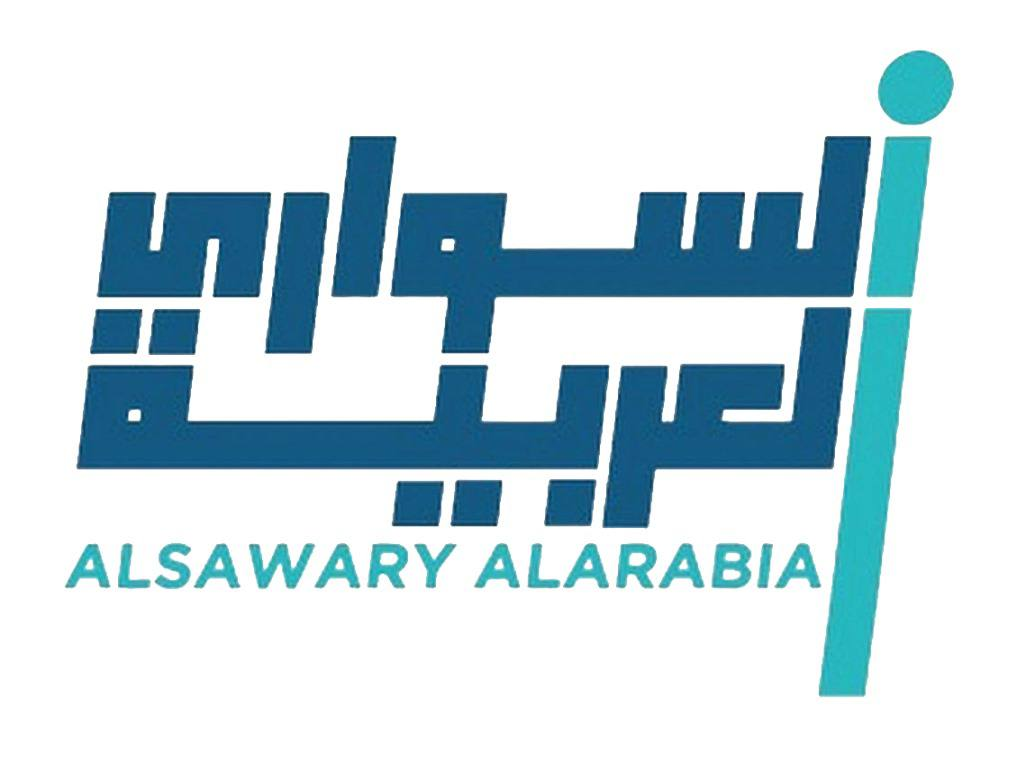
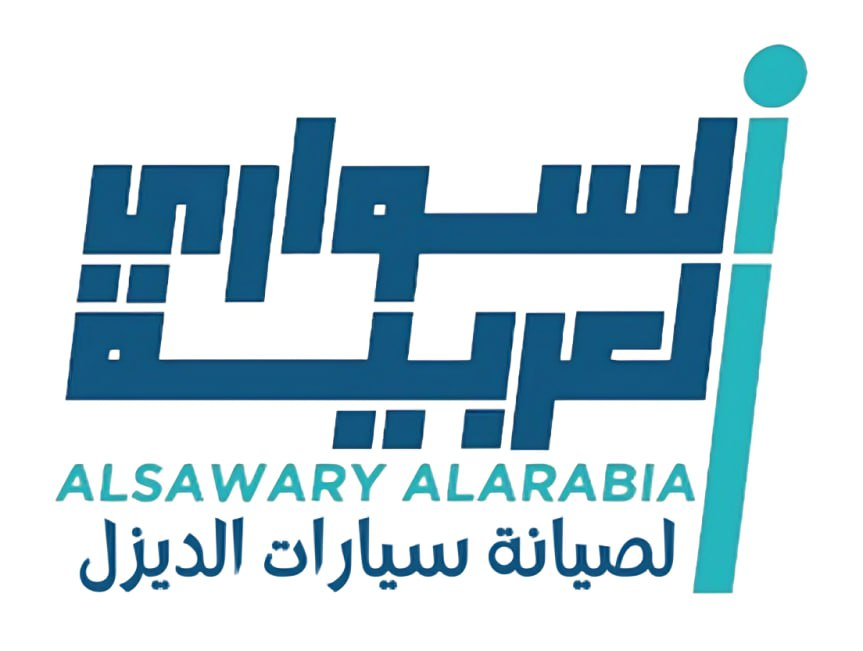
edit stuff

diff --git a/resources/views/frontend/index.blade.php b/resources/views/frontend/index.blade.php
@@ -1,6 +1,4 @@
 @extends('layouts.main')
-
-
 @section('content')
     
     <div class="main-container ">
@@ -9,78 +7,21 @@
         </div>
         <div class="container w-full max-w-full  md:pt-40 pt-10">
             <div class="cars md:w-11/12 w-full px-4 mx-auto border-b-2 border-gray-200" data-aos="fade-up" data-aos-duration="1500">
-                <h1 class="sm:mt-20 mt-10 sm:text-4xl text-3xl text-main-back border-b-4 border-main-back pb-4 w-fit" data-aos="fade-right" data-aos-duration="2000">سيارات البيع المباشر</h1>
-                @if (count($cars) != 0)
-                    <div class="car-boxs pb-[120px] relative grid lg:grid-cols-4 md:grid-cols-3 sm:grid-cols-2 grid-cols-1 gap-8">
-                        @foreach($cars as $car)
-                            <a href="commercials-cars/{{$car->id}}" title="عرض السيارات" class="group mt-10 bg-white text-main-text shadow-md hover:shadow-lg transition-all ease-linear rounded overflow-hidden relative">
-                                <img src="{{asset("uploads/car_logos/$car->car_logo")}}" class="w-full rounded-sm group-hover:blur-[1px] transition-all ease-linear object-contain" alt="صورة السيارة">
-                                <div class="content p-4 pt-0 bg-white">
-                                    <h3 class="pt-2 mb-4 font-semibold text-main-back">{{$car->car_model}}</h3>
-                                    <div class="flex justify-between items-center mt-2">
-                                        <span class="font-semibold"><i class="fa-solid fa-gauge"></i> {{$car->car_odometer}} </span>
-                                        <span class="font-semibold"><i class="fa-solid fa-calendar-days me-2"></i>{{$car->car_created}}</span>
-                                    </div>
-                                    <div class="flex justify-between items-center mt-4">
-                                        <span class="font-semibold"><i class="fa-solid fa-gas-pump"></i> {{$car->car_fuel ? "ديزل": "بنزين"}}</span>
-                                        <p class="">{{$car->car_location}} <i class="fa-solid fa-location-dot me-1"></i></p>
-                                    </div>
-                                    
-                                    @if (!$car->car_status)
-                                        <span class=" bg-main-back text-white font-semibold w-24 text-left px-4 py-1 absolute top-2 rounded-3xl -right-3 ">تم البيع</span>
-                                    @endif
-                                </div>
-                            </a>
-                        @endforeach
-                        @if(count($cars) > 3)
-                            <a href="{{route('cars')}}" 
-                                class="w-40 text-center py-2 px-4 mt-10 mx-auto absolute bottom-14 left-1/2 -translate-x-1/2 bg-main-back rounded-lg text-white hover:bg-hover-back transition-all font-semibold"
-                            >عرض المزيد </a>
-                        @endif
-                    </div>
-                @else
-                    <div class="flex justify-center items-center mb-4 flex-col">
-                        <img src="{{asset("images/no-data.png")}}" alt="لا توجد بيانات لعرضها"  class="md:w-[400px] md:h-[400px] w-[300px] h-[300px] mb-2">
-                        <h3 class="bg-teal-200 md:text-2xl text-xl py-2 px-4  rounded text-main-back">لا يوجد عروض سيارات </h3>
-                    </div>
-                @endif
-            </div>
-            <div class="cars md:w-11/12 w-full px-4 mx-auto border-b-2 border-gray-200" data-aos="fade-up" data-aos-duration="1500">
-                <h1 class="sm:mt-20 mt-10 sm:text-4xl text-3xl text-main-back border-b-4 border-main-back pb-4 w-fit" data-aos="fade-right" data-aos-duration="2000">سيارات المزاد</h1>
-                @if (count($auctions) != 0)
-                    <div class="car-boxs pb-[120px] relative grid lg:grid-cols-4 md:grid-cols-3 sm:grid-cols-2 grid-cols-1 gap-8">
-                        @foreach($auctions as $car)
-                            <a href="commercials-auctionCars/{{$car->id}}" title="عرض السيارات" class="group mt-10 bg-white text-main-text shadow-md hover:shadow-lg transition-all ease-linear rounded overflow-hidden relative">
-                                <img src="{{asset("uploads/car_logos/$car->car_logo")}}" class="w-full rounded-sm group-hover:blur-[1px] transition-all ease-linear object-contain" alt="صورة السيارة">
-                                <div class="content p-4 pt-0 bg-white">
-                                    <h3 class="pt-2 mb-4 font-semibold text-main-back">{{$car->car_model}}</h3>
-                                    <div class="flex justify-between items-center mt-2">
-                                        <span class="font-semibold"><i class="fa-solid fa-gauge"></i> {{$car->car_odometer}} </span>
-                                        <span class="font-semibold"><i class="fa-solid fa-calendar-days me-2"></i>{{$car->car_created}}</span>
-                                    </div>
-                                    <div class="flex justify-between items-center mt-4">
-                                        <span class="font-semibold"><i class="fa-solid fa-gas-pump"></i> {{$car->car_fuel ? "ديزل": "بنزين"}}</span>
-                                        <p class="">{{$car->car_location}} <i class="fa-solid fa-location-dot me-1"></i></p>
-                                    </div>
-                                    
-                                    @if (!$car->car_status)
-                                        <span class=" bg-main-back text-white font-semibold w-24 text-left px-4 py-1 absolute top-2 rounded-3xl -right-3 ">تم البيع</span>
-                                    @endif
-                                </div>
-                            </a>
-                        @endforeach
-                        @if(count($cars) > 3)
-                        <a href="{{route('auctions')}}" 
-                            class="w-40 text-center py-2 px-4 mt-10 mx-auto absolute bottom-14 left-1/2 -translate-x-1/2 bg-main-back rounded-lg text-white hover:bg-hover-back transition-all font-semibold"
-                        >عرض المزيد </a>
-                    @endif
-                    </div>
-                @else
-                    <div class="flex justify-center items-center mb-4 flex-col">
-                        <img src="{{asset("images/no-data.png")}}" alt="لا توجد بيانات لعرضها"  class="md:w-[400px] md:h-[400px] w-[300px] h-[300px] mb-2">
-                        <h3 class="bg-teal-200 md:text-2xl text-xl py-2 px-4 rounded text-main-back">لا يوجد عروض سيارات </h3>
-                    </div>
-                @endif
+                <div class="car-boxs pb-[120px] flex justify-center sm:flex-row flex-col items-center mt-6 gap-10">
+
+                    <a href="commercials-cars" title="سيارات البيع المباشر" class="bg-white relative sm:mx-0 mx-auto sm:mb-0 mb-10 rounded shadow-md group hover:shadow-lg hover:-translate-y-2 transition-all ease-linear border-b-4 border-main-back hover:border-transparent w-[400px] max-w-full">
+                        <span class="bg-main-back h-1 w-0 absolute top-0 left-1/2 -translate-x-1/2 group-hover:w-full transition-all ease-linear"></span>
+                        <img src="{{asset("images/direct_sale.jpg")}}" class="w-full object-contain p-4" alt="صورة">
+                        <h3 class="p-2 text-xl font-semibold sm:text-right text-center group-hover:text-main-back">سيارات البيع المباشر</h3>
+                    </a>            
+
+                    <a href="commercials-auctions" title="سيارات المزاد" class="bg-white relative sm:mx-0 mx-auto sm:mb-0 mb-10 rounded shadow-md group hover:shadow-lg hover:-translate-y-2 transition-all ease-linear border-b-4 border-main-back hover:border-transparent w-[400px] max-w-full">
+                        <span class="bg-main-back h-1 w-0 absolute top-0 left-1/2 -translate-x-1/2 group-hover:w-full transition-all ease-linear"></span>
+                        <img src="{{asset("images/auction_sale.png")}}" class="w-full object-contain p-4" alt="صورة">
+                        <h3 class="p-2 text-xl font-semibold sm:text-right text-center group-hover:text-main-back">سيارات المزاد</h3>
+                    </a>  
+
+                </div>
             </div>
             
             <section class="py-20 my-40 relative">
@@ -135,7 +76,7 @@
                         <div class="w-[1000px] mx-auto max-w-full px-2">
                             <div class="grid md:grid-cols-2 grid-cols-1 gap-5 mb-20 mt-10">
                                 @foreach ($reviews as $review)
-                                    <div class="user-review relative bg-gray-200 p-4 rounded shadow-md flex flex-col justify-between">
+                                    <div class="user-review relative bg-gray-100 p-4 rounded shadow-md flex flex-col justify-between">
                                         <div class="star_ratings inline-block mb-8">
                 
                                             @for ($i = 0; $i < 5; $i++)
@@ -158,13 +99,44 @@
                                         </div>
                                     </div>
                                 @endforeach
+                                <div class=" user-review relative bg-gray-100 p-4 rounded shadow-md flex flex-col justify-between" dir="rtl">
+                                    <div class="star_ratings inline-block">
+                                        <span><i class="fa-solid fa-star text-yellow-400"></i></span>
+                                        <span><i class="fa-solid fa-star text-yellow-400"></i></span>
+                                        <span><i class="fa-solid fa-star text-yellow-400"></i></span>
+                                        <span><i class="fa-solid fa-star text-yellow-400"></i></span>
+                                        <span><i class="fa-solid fa-star text-yellow-400"></i></span>
+                                        <span class="ms-2 text-main-text">(50+)</span>
+                                    </div>
+                                    <h3 class="my-4 text-main-text text-2xl font-bold">تقييمات العملاء على موقع حراج </h3>
+                                    <div class="content mb-5 leading-6 text-gray-600">
+                                        <a href="https://haraj.com.sa/users/%D8%A7%D8%A8%D9%88%20%D8%A8%D8%AF%D8%B1%20%D9%84%D9%84%D8%A7%D8%B3%D8%AA%D9%8A%D8%B1%D8%A7%D8%AF" target="_blank"  title="آراء العملاء" class="text-main-text sm:text-xl text-lg block mb-5 underline hover:text-main-back font-normal transition-all ease-linear"><i class="fa-solid fa-up-right-from-square"></i> موقع حراج</a>
+                                    </div>
+                                </div>
                             </div>
                         </div>
                     @endif
                 @else
-                    <div class="max-w-full  mx-auto w-[700px] mb-20 flex flex-col items-center py-10">
-                        <i class="fa-solid fa-magnifying-glass max-w-full text-[100px] text-main-back mx-auto text-center mb-4"></i>
-                        <h3 class="text-main-back text-center sm:text-2xl mt-2 max-w-full bg-green-100 py-2 px-4 w-[500px] mx-auto rounded-md shadow">ليس هنالك آراء بعد، <a href="{{route('reviews.index')}}#review-form " class="underline text-base">أضافة رأيي</a></h3>
+                    <div class="max-w-full mx-auto w-[700px] mb-20 flex flex-col  gap-5 py-10">
+                        <div class="flex flex-col items-center">
+                            <i class="fa-solid fa-magnifying-glass max-w-full text-[100px] text-main-back mx-auto text-center mb-4"></i>
+                            <h3 class="text-main-back text-center sm:text-2xl mt-2 max-w-full bg-green-100 py-2 px-4 w-[500px] mx-auto rounded-md shadow">ليس هنالك آراء بعد، <a href="{{route('reviews.index')}}#review-form " class="underline text-base">أضافة رأيي</a></h3>
+                        </div>
+
+                        <div class=" user-review relative bg-gray-100 p-4 rounded shadow-md flex flex-col justify-between" dir="rtl">
+                            <div class="star_ratings inline-block">
+                                <span><i class="fa-solid fa-star text-yellow-400"></i></span>
+                                <span><i class="fa-solid fa-star text-yellow-400"></i></span>
+                                <span><i class="fa-solid fa-star text-yellow-400"></i></span>
+                                <span><i class="fa-solid fa-star text-yellow-400"></i></span>
+                                <span><i class="fa-solid fa-star text-yellow-400"></i></span>
+                                <span class="ms-2 text-main-text">(50+)</span>
+                            </div>
+                            <h3 class="my-4 text-main-text text-2xl font-bold">تقييمات العملاء على موقع حراج </h3>
+                            <div class="content mb-5 leading-6 text-gray-600">
+                                <a href="https://haraj.com.sa/users/%D8%A7%D8%A8%D9%88%20%D8%A8%D8%AF%D8%B1%20%D9%84%D9%84%D8%A7%D8%B3%D8%AA%D9%8A%D8%B1%D8%A7%D8%AF" target="_blank"  title="آراء العملاء" class="text-main-text sm:text-xl text-lg block mb-5 underline hover:text-main-back font-normal transition-all ease-linear"><i class="fa-solid fa-up-right-from-square"></i> موقع حراج</a>
+                            </div>
+                        </div>
                     </div>
                 @endif
             </section>

diff --git a/resources/views/frontend/cars.blade.php b/resources/views/frontend/cars.blade.php
@@ -5,27 +5,33 @@
 
 @section('content')
     <div class="md:w-11/12 w-full px-4  mx-auto">
-        <div class="relative pb-40 grid lg:grid-cols-4 md:grid-cols-3 sm:grid-cols-2 grid-cols-1 gap-8" data-aos="fade-right"  data-aos-duration="1500">
-            @foreach($cars as $car)
-                <a href="/commercials-cars/{{$car->id}}" title="عرض السيارات" class="group mt-10 bg-white text-main-text shadow-md hover:shadow-lg transition-all ease-linear rounded overflow-hidden relative">
-                    <img src="{{asset("uploads/car_logos/$car->car_logo")}}" class="w-full rounded-sm group-hover:blur-[1px] transition-all ease-linear object-contain" alt="صورة السيارة">
-                    <div class="content p-4 pt-0 bg-white">
-                        <h3 class="pt-2 mb-4 font-semibold text-main-back">{{$car->car_model}}</h3>
-                        <div class="flex justify-between items-center mt-2">
-                            <span class="font-semibold"><i class="fa-solid fa-gauge"></i> {{$car->car_odometer}} </span>
-                            <span class="font-semibold"><i class="fa-solid fa-calendar-days me-2"></i>{{$car->car_created}}</span>
+        @if(count($cars) != 0) 
+            <div class="relative pb-40 grid lg:grid-cols-4 md:grid-cols-3 sm:grid-cols-2 grid-cols-1 gap-8" data-aos="fade-right"  data-aos-duration="1500">
+                @foreach($cars as $car)
+                    <a href="/commercials-cars/{{$car->id}}" title="عرض السيارات" class="group mt-10 bg-white text-main-text shadow-md hover:shadow-lg transition-all ease-linear rounded overflow-hidden relative">
+                        <img src="{{asset("uploads/car_logos/$car->car_logo")}}" class="w-full rounded-sm group-hover:blur-[1px] transition-all ease-linear  h-[200px] object-cover" alt="صورة السيارة">
+                        <div class="content p-4 pt-0 bg-white">
+                            <h3 class="pt-2 mb-4 font-semibold text-main-back">{{$car->car_model}}</h3>
+                            <div class="flex justify-between items-center mt-2">
+                                <span class="font-semibold"><i class="fa-solid fa-gauge"></i> {{$car->car_odometer}} </span>
+                                <span class="font-semibold"><i class="fa-solid fa-calendar-days me-2"></i>{{$car->car_created}}</span>
+                            </div>
+                            <div class="flex justify-between items-center mt-4">
+                                <span class="font-semibold"><i class="fa-solid fa-gas-pump"></i> {{$car->car_fuel ? "ديزل": "بنزين"}}</span>
+                                <p class="">{{$car->car_location}} <i class="fa-solid fa-location-dot me-1"></i></p>
+                            </div>
+                            
+                            @if (!$car->car_status)
+                                <span class=" bg-main-back text-white font-semibold w-24 text-left px-4 py-1 absolute top-2 rounded-3xl -right-3 ">تم البيع</span>
+                            @endif
                         </div>
-                        <div class="flex justify-between items-center mt-4">
-                            <span class="font-semibold"><i class="fa-solid fa-gas-pump"></i> {{$car->car_fuel ? "ديزل": "بنزين"}}</span>
-                            <p class="">{{$car->car_location}} <i class="fa-solid fa-location-dot me-1"></i></p>
-                        </div>
-                        
-                        @if (!$car->car_status)
-                            <span class=" bg-main-back text-white font-semibold w-24 text-left px-4 py-1 absolute top-2 rounded-3xl -right-3 ">تم البيع</span>
-                        @endif
-                    </div>
-                </a>
-            @endforeach
-        </div>
+                    </a>
+                @endforeach
+                </div>
+            @else 
+                <div class="w-full flex items-center flex-col justify-center my-20">
+                    <h3 class="text-main-back sm:text-4xl mt-2 max-w-full bg-teal-100 py-2 px-4 rounded-md shadow">ليس هنالك سيارات لعرضها</h3>
+                </div>
+            @endif
     </div>
 @endsection

diff --git a/resources/views/frontend/auctions.blade.php b/resources/views/frontend/auctions.blade.php
@@ -5,27 +5,33 @@
 
 @section('content')
     <div class="md:w-11/12 w-full px-4  mx-auto">
-        <div class="relative pb-40 grid lg:grid-cols-4 md:grid-cols-3 sm:grid-cols-2 grid-cols-1 gap-8" data-aos="fade-right"  data-aos-duration="1500">
-            @foreach($auctionCars as $car)
-            <a href="/commercials-auctionCars/{{$car->id}}" title="عرض السيارات" class="group mt-10 bg-white text-main-text shadow-md hover:shadow-lg transition-all ease-linear rounded overflow-hidden relative">
-                <img src="{{asset("uploads/car_logos/$car->car_logo")}}" class="w-full rounded-sm group-hover:blur-[1px] transition-all ease-linear object-contain" alt="صورة السيارة">
-                <div class="content p-4 pt-0 bg-white">
-                    <h3 class="pt-2 mb-4 font-semibold text-main-back">{{$car->car_model}}</h3>
-                    <div class="flex justify-between items-center mt-2">
-                        <span class="font-semibold"><i class="fa-solid fa-gauge"></i> {{$car->car_odometer}} كم</span>
-                        <span class="font-semibold"><i class="fa-solid fa-calendar-days me-2"></i>{{$car->car_created}}</span>
+        @if(count($auctionCars) != 0) 
+            <div class="relative pb-40 grid lg:grid-cols-4 md:grid-cols-3 sm:grid-cols-2 grid-cols-1 gap-8" data-aos="fade-right"  data-aos-duration="1500">
+                @foreach($auctionCars as $car)
+                <a href="/commercials-auctionCars/{{$car->id}}" title="عرض السيارات" class="group mt-10 bg-white text-main-text shadow-md hover:shadow-lg transition-all ease-linear rounded overflow-hidden relative">
+                    <img src="{{asset("uploads/car_logos/$car->car_logo")}}" class="w-full rounded-sm group-hover:blur-[1px] transition-all ease-linear h-[200px] object-cover" alt="صورة السيارة">
+                    <div class="content p-4 pt-0 bg-white">
+                        <h3 class="pt-2 mb-4 font-semibold text-main-back">{{$car->car_model}}</h3>
+                        <div class="flex justify-between items-center mt-2">
+                            <span class="font-semibold"><i class="fa-solid fa-gauge"></i> {{$car->car_odometer}} كم</span>
+                            <span class="font-semibold"><i class="fa-solid fa-calendar-days me-2"></i>{{$car->car_created}}</span>
+                        </div>
+                        <div class="flex justify-between items-center mt-4">
+                            <span class="font-semibold"><i class="fa-solid fa-gas-pump"></i> {{$car->car_fuel ? "ديزل": "بنزين"}}</span>
+                            <p class="">{{$car->car_location}} <i class="fa-solid fa-location-dot me-1"></i></p>
+                        </div>
+                        
+                        @if (!$car->car_status)
+                            <span class=" bg-main-back text-white font-semibold w-24 text-left px-4 py-1 absolute top-2 rounded-3xl -right-3 ">تم البيع</span>
+                        @endif
                     </div>
-                    <div class="flex justify-between items-center mt-4">
-                        <span class="font-semibold"><i class="fa-solid fa-gas-pump"></i> {{$car->car_fuel ? "ديزل": "بنزين"}}</span>
-                        <p class="">{{$car->car_location}} <i class="fa-solid fa-location-dot me-1"></i></p>
-                    </div>
-                    
-                    @if (!$car->car_status)
-                        <span class=" bg-main-back text-white font-semibold w-24 text-left px-4 py-1 absolute top-2 rounded-3xl -right-3 ">تم البيع</span>
-                    @endif
-                </div>
-            </a>
-        @endforeach
-        </div>
+                </a>
+                @endforeach
+            </div>
+        @else 
+            <div class="w-full flex items-center flex-col justify-center my-20">
+                <h3 class="text-main-back sm:text-4xl mt-2 max-w-full bg-teal-100 py-2 px-4 rounded-md shadow">ليس هنالك سيارات لعرضها</h3>
+            </div>
+        @endif
     </div>
 @endsection

diff --git a/resources/views/layouts/main.blade.php b/resources/views/layouts/main.blade.php
@@ -123,14 +123,14 @@
                         أبو بدر لاستيراد السيارات الكورية يقدم لكم خبرته الطويلة في استيراد سيارات الديزل والبنزين من دولة كوريا الجنوبية. 
                     </h3>
                 </div>
-                <div class="">
+                <div>
                     <h3 class="mt-5 sm:mb-10 mb-5 sm:text-2xl text-xl text-white font-bold">شركاء النجاح</h3>
                     <ul class="flex flex-wrap items-center mb-6 text-sm font-medium text-gray-500 sm:mb-0 ">
                         <li>
-                            <a href="https://wa.me/966505700333" target="_blank" title="شركاء النجاح" class="text-white sm:text-xl text-lg block mb-5 hover:text-main-back font-normal transition-all ease-linear"><i class="fa-solid fa-handshake"></i> السواري العربية</a>
+                            <a href="https://wa.me/966505700333" target="_blank" title="شركاء النجاح" class="text-white sm:text-xl text-lg block mb-5 hover:text-main-back font-normal transition-all ease-linear"> <i class="fa-solid fa-handshake"></i> السواري العربية لصيانة سيارات الديزل </a>
                         </li>
                         <li>
-                            <a href="https://wa.me/966507907300" target="_blank" title="شركاء النجاح" class="text-white sm:text-xl text-lg block mb-5 hover:text-main-back font-normal transition-all ease-linear"><i class="fa-solid fa-handshake"></i> المركز السعودي السوري</a>
+                            <a href="https://wa.me/966507907300" target="_blank" title="شركاء النجاح" class="text-white sm:text-xl text-lg block mb-5 hover:text-main-back font-normal transition-all ease-linear"><i class="fa-solid fa-handshake"></i> المركز السعودي السوري لصيانة سيارات الديزل</a>
                         </li>
                     </ul>
                 </div>

diff --git a/resources/views/layouts/views.blade.php b/resources/views/layouts/views.blade.php
@@ -98,14 +98,14 @@
                         أبو بدر لاستيراد السيارات الكورية يقدم لكم خبرته الطويلة في استيراد سيارات الديزل والبنزين من دولة كوريا الجنوبية. 
                     </h3>
                 </div>
-                <div class="">
+                <div>
                     <h3 class="mt-5 sm:mb-10 mb-5 sm:text-2xl text-xl text-white font-bold">شركاء النجاح</h3>
                     <ul class="flex flex-wrap items-center mb-6 text-sm font-medium text-gray-500 sm:mb-0 ">
                         <li>
-                            <a href="https://wa.me/966505700333" target="_blank" title="شركاء النجاح" class="text-white sm:text-xl text-lg block mb-5 hover:text-main-back font-normal transition-all ease-linear"><i class="fa-solid fa-handshake"></i> السواري العربية</a>
+                            <a href="https://wa.me/966505700333" target="_blank" title="شركاء النجاح" class="text-white sm:text-xl text-lg block mb-5 hover:text-main-back font-normal transition-all ease-linear"> <i class="fa-solid fa-handshake"></i> السواري العربية لصيانة سيارات الديزل </a>
                         </li>
                         <li>
-                            <a href="https://wa.me/966507907300" target="_blank" title="شركاء النجاح" class="text-white sm:text-xl text-lg block mb-5 hover:text-main-back font-normal transition-all ease-linear"><i class="fa-solid fa-handshake"></i> المركز السعودي السوري</a>
+                            <a href="https://wa.me/966507907300" target="_blank" title="شركاء النجاح" class="text-white sm:text-xl text-lg block mb-5 hover:text-main-back font-normal transition-all ease-linear"><i class="fa-solid fa-handshake"></i> المركز السعودي السوري لصيانة سيارات الديزل</a>
                         </li>
                     </ul>
                 </div>

diff --git a/routes/breadcrumbs.php b/routes/breadcrumbs.php
@@ -8,7 +8,7 @@ Breadcrumbs::for('index', function ($trail) {
 // home > cars
 Breadcrumbs::for('allcars', function ($trail) {
     $trail->parent('index');
-    $trail->push('قائمة السيارات', route('cars'));
+    $trail->push('سيارات البيع المباشر', route('cars'));
 });
 
 
@@ -22,7 +22,7 @@ Breadcrumbs::for('showCar', function ($trail, $car, ) {
 // home > auction cars
 Breadcrumbs::for('auctions', function ($trail) {
     $trail->parent('index');
-    $trail->push('قائمة سيارات المزاد', route('auctions'));
+    $trail->push('سيارات المزاد', route('auctions'));
 });
 
 

diff --git a/resources/views/layouts/customize.blade.php b/resources/views/layouts/customize.blade.php
@@ -13,7 +13,7 @@
         <link rel="stylesheet" href="{{asset('css/all.min.css')}}">
         <!-- Scripts -->
         <link rel="stylesheet" href="{{asset('build/assets/app.css')}}">
-        
+
         <!-- Styles -->
         @livewireStyles
     </head>
